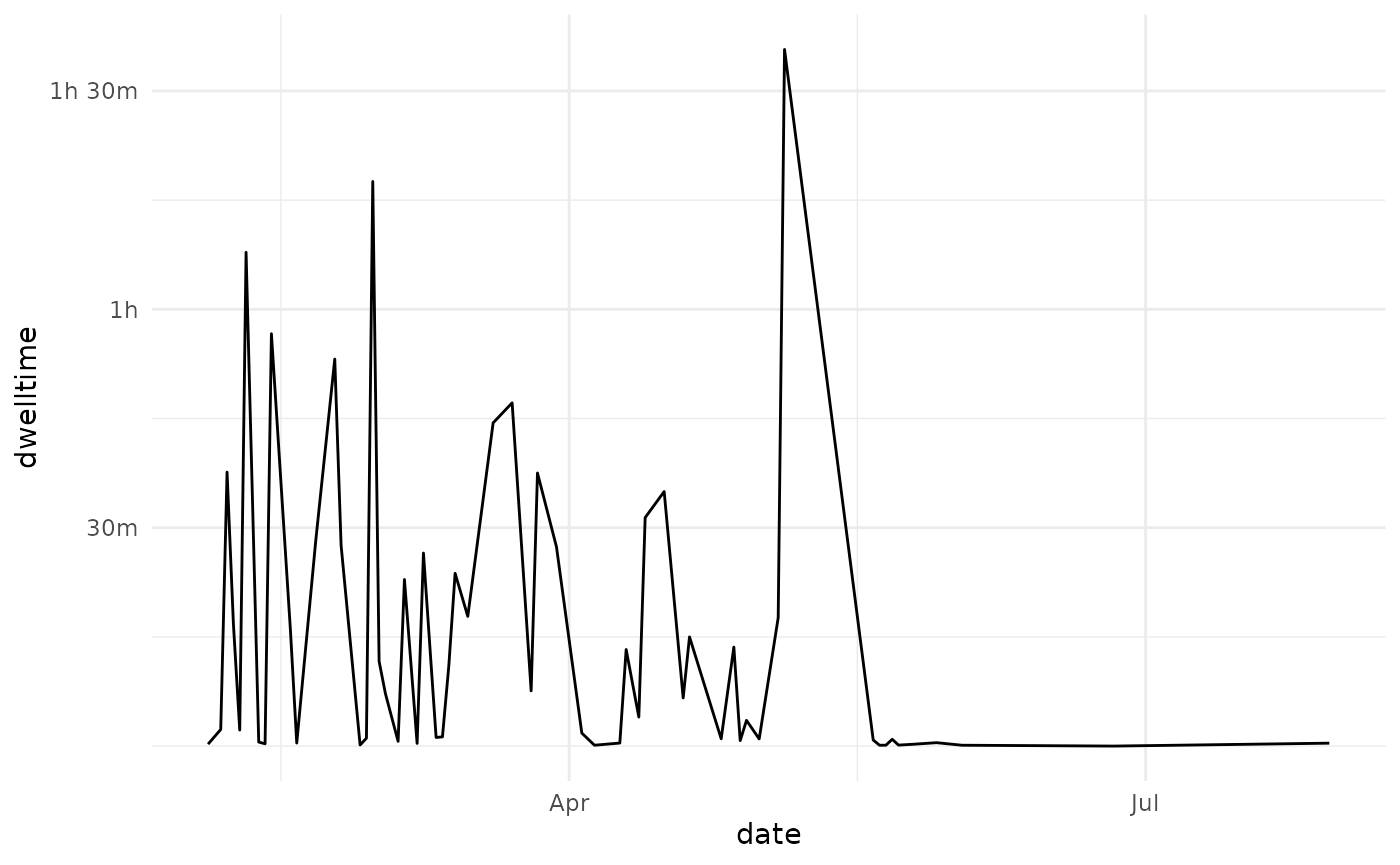
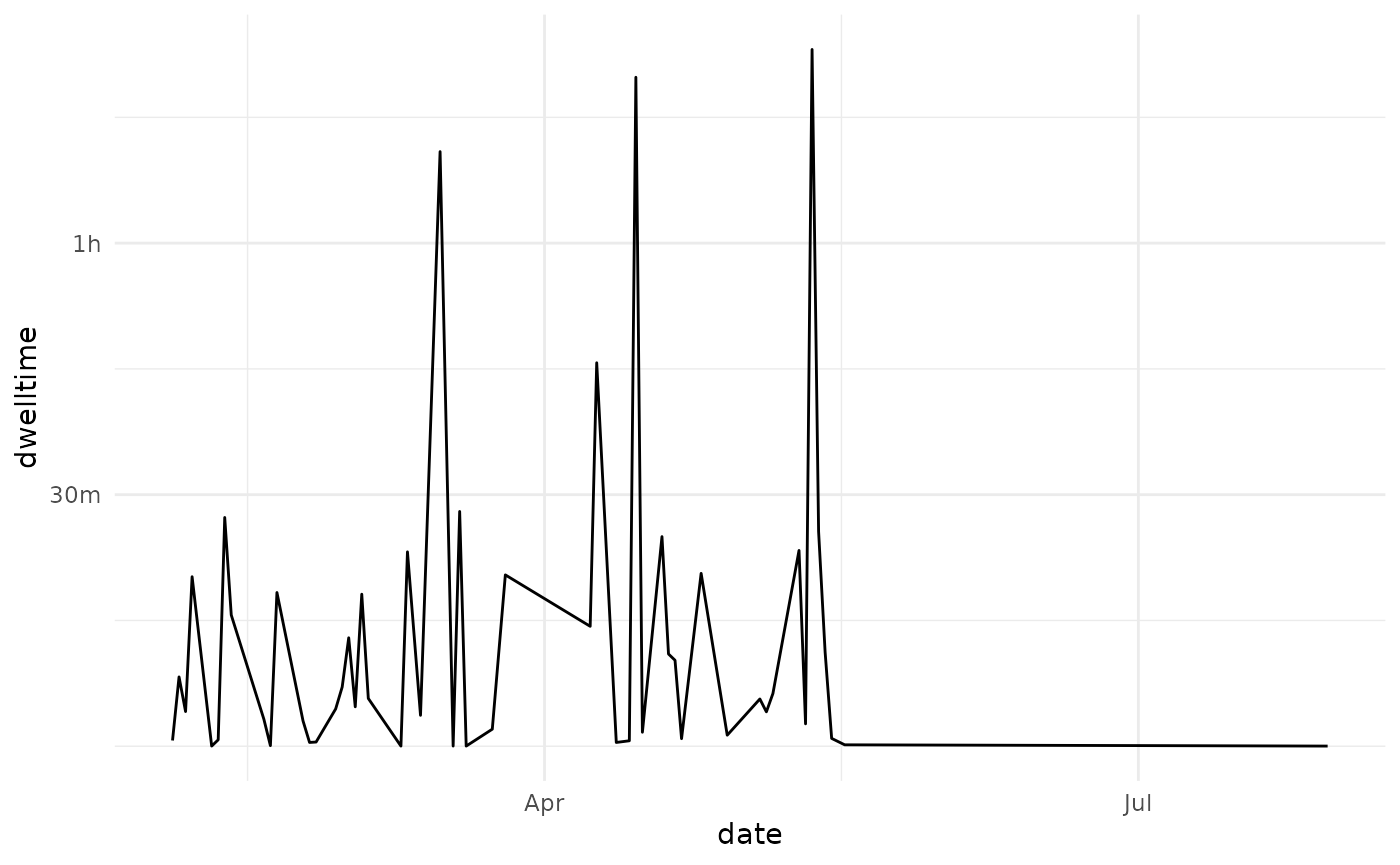
updated formula

diff --git a/docs/articles/calculating-time-on-task.html b/docs/articles/calculating-time-on-task.html
@@ -117,7 +117,7 @@
 <p><span class="math display">\[
 \hat{d}  =    \sum_{i=1}^{|X|} 
 \begin{cases}
-    x_{i-1}-x_i,&amp; \text{if } x_{i-1}-x_i\leq \theta\\
+    x_i-x_{i-1},&amp; \text{if } x_i-x_{i-1}\text{ }\leq \theta\\
     0,              &amp; \text{otherwise}
 \end{cases}
 \]</span></p>
@@ -178,7 +178,7 @@
   <span class="fu"><a href="https://dplyr.tidyverse.org/reference/mutate.html">mutate</a></span><span class="op">(</span>dwelltime <span class="op">=</span>  <span class="va">timecreated</span> <span class="op">-</span> <span class="fu"><a href="https://dplyr.tidyverse.org/reference/lead-lag.html">lag</a></span><span class="op">(</span><span class="va">timecreated</span><span class="op">)</span><span class="op">)</span>
 
 <span class="fu"><a href="https://rdrr.io/r/base/mean.html">mean</a></span><span class="op">(</span><span class="va">dwelltime_estimate</span> <span class="op">%&gt;%</span> <span class="fu"><a href="https://dplyr.tidyverse.org/reference/pull.html">pull</a></span><span class="op">(</span><span class="st">"dwelltime"</span><span class="op">)</span>, na.rm <span class="op">=</span> <span class="cn">TRUE</span><span class="op">)</span> 
-<span class="co">#&gt; [1] 12208.92</span></code></pre></div>
+<span class="co">#&gt; [1] 12685.78</span></code></pre></div>
 </div>
 <div id="estimating-timeout-visually" class="section level3">
 <h3 class="hasAnchor">
@@ -193,15 +193,17 @@
   <span class="fu"><a href="https://ggplot2.tidyverse.org/reference/geom_density.html">geom_density</a></span><span class="op">(</span><span class="op">)</span><span class="op">+</span>
   <span class="fu"><a href="https://ggplot2.tidyverse.org/reference/scale_continuous.html">scale_x_log10</a></span><span class="op">(</span>labels <span class="op">=</span> <span class="fu">scales</span><span class="fu">::</span><span class="fu"><a href="https://scales.r-lib.org/reference/label_number_si.html">label_number_si</a></span><span class="op">(</span><span class="op">)</span><span class="op">)</span>
 <span class="va">density_plot</span>
+<span class="co">#&gt; Warning in self$trans$transform(x): NaNs produced</span>
 <span class="co">#&gt; Warning: Transformation introduced infinite values in continuous x-axis</span>
-<span class="co">#&gt; Warning: Removed 444 rows containing non-finite values (stat_density).</span></code></pre></div>
+<span class="co">#&gt; Warning: Removed 364 rows containing non-finite values (stat_density).</span></code></pre></div>
 <p><img src="calculating-time-on-task_files/figure-html/unnamed-chunk-8-1.png" width="700"></p>
 <p>We see a flattening occurring around 1000. Perhaps we can round this to 1200 (which corresponds to 20 minutes) for good measure:</p>
 <div class="sourceCode" id="cb7"><pre class="downlit sourceCode r">
 <code class="sourceCode R"><span class="va">density_plot</span> <span class="op">+</span> 
   <span class="fu"><a href="https://ggplot2.tidyverse.org/reference/geom_abline.html">geom_vline</a></span><span class="op">(</span>xintercept <span class="op">=</span> <span class="fl">1200</span>, lty<span class="op">=</span><span class="fl">2</span>, color<span class="op">=</span><span class="st">"blue"</span><span class="op">)</span>
+<span class="co">#&gt; Warning in self$trans$transform(x): NaNs produced</span>
 <span class="co">#&gt; Warning: Transformation introduced infinite values in continuous x-axis</span>
-<span class="co">#&gt; Warning: Removed 444 rows containing non-finite values (stat_density).</span></code></pre></div>
+<span class="co">#&gt; Warning: Removed 364 rows containing non-finite values (stat_density).</span></code></pre></div>
 <p><img src="calculating-time-on-task_files/figure-html/unnamed-chunk-9-1.png" width="700"></p>
 <p>So,</p>
 <div class="sourceCode" id="cb8"><pre class="downlit sourceCode r">
@@ -214,7 +216,7 @@
 <span class="co">#&gt; # Database: sqlite 3.33.0 [/home/sasha/chi2/moodleR/mdl_cache/mdl_cache.sqlite]</span>
 <span class="co">#&gt;   total_dwelltime</span>
 <span class="co">#&gt;             &lt;int&gt;</span>
-<span class="co">#&gt; 1           55260</span></code></pre></div>
+<span class="co">#&gt; 1           40717</span></code></pre></div>
 <p>And human readable:</p>
 <div class="sourceCode" id="cb10"><pre class="downlit sourceCode r">
 <code class="sourceCode R"><span class="va">dwelltime_estimate</span> <span class="op">%&gt;%</span> 
@@ -222,7 +224,7 @@
   <span class="fu"><a href="https://dplyr.tidyverse.org/reference/summarise.html">summarize</a></span><span class="op">(</span>total_dwelltime <span class="op">=</span> <span class="fu"><a href="https://rdrr.io/r/base/sum.html">sum</a></span><span class="op">(</span><span class="va">dwelltime</span>, na.rm <span class="op">=</span> <span class="cn">TRUE</span><span class="op">)</span><span class="op">)</span> <span class="op">%&gt;%</span> 
   <span class="fu"><a href="https://dplyr.tidyverse.org/reference/pull.html">pull</a></span><span class="op">(</span><span class="va">total_dwelltime</span><span class="op">)</span> <span class="op">%&gt;%</span> 
   <span class="fu">prettyunits</span><span class="fu">::</span><span class="fu"><a href="https://rdrr.io/pkg/prettyunits/man/pretty_sec.html">pretty_sec</a></span><span class="op">(</span>compact <span class="op">=</span> <span class="cn">TRUE</span><span class="op">)</span>
-<span class="co">#&gt; [1] "~15h"</span></code></pre></div>
+<span class="co">#&gt; [1] "~11h"</span></code></pre></div>
 </div>
 </div>
 <div id="creating-a-timeline" class="section level2">
